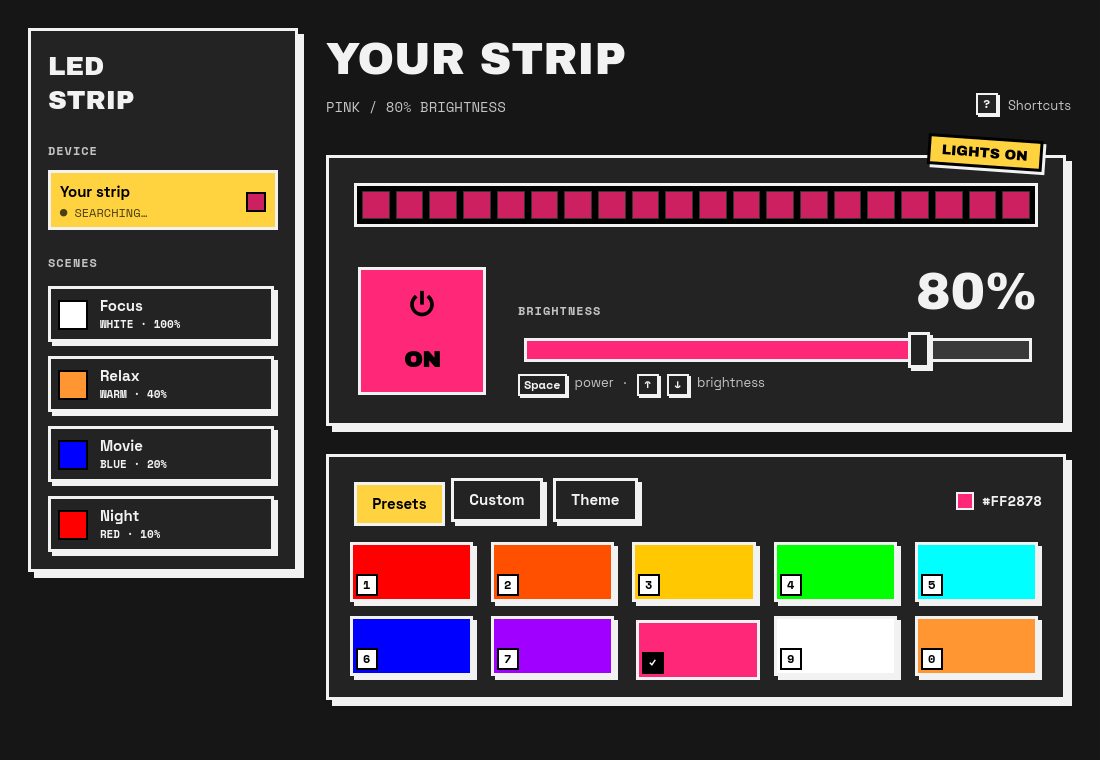
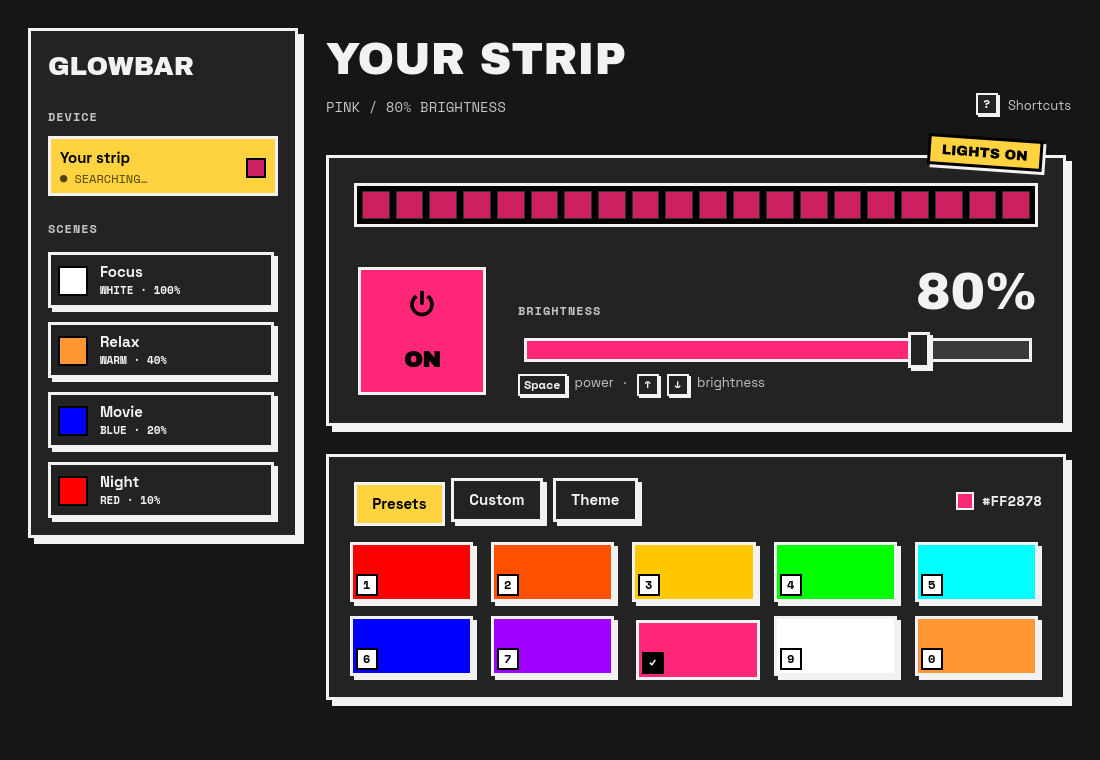
Rename the app to Glowbar
The binary, package, desktop entry, icon, macOS bundle and window title
are now glowbar / Glowbar. The Arch package replaces ledstrip, and saved
settings are copied from ~/.config/ledstrip on first launch so the
remembered strip, color and brightness carry over.

Changed region(s): [[0.0309, 0.0605, 0.2782, 0.7868]]

diff --git a/src/Main.qml b/src/Main.qml
@@ -10,7 +10,7 @@ ApplicationWindow {
     minimumWidth: 420
     minimumHeight: 560
     visible: true
-    title: qsTr("LED Strip")
+    title: "Glowbar"
     color: Neo.background
 
     font.family: Neo.body
@@ -231,8 +231,7 @@ ApplicationWindow {
 
                         Display {
                             Layout.fillWidth: true
-                            // Stack the words in the narrow column, as on a label.
-                            text: win.wide ? qsTr("LED Strip").replace(" ", "\n") : qsTr("LED Strip")
+                            text: "Glowbar"
                             font.pixelSize: 26
                             wrapMode: Text.Wrap
                         }

diff --git a/tests/glowbar_tests.cpp b/tests/glowbar_tests.cpp
@@ -9,7 +9,7 @@
 #include "theme.h"
 #include "translator.h"
 
-class LedstripTests : public QObject {
+class GlowbarTests : public QObject {
     Q_OBJECT
 
 private slots:
@@ -37,7 +37,7 @@ private slots:
     {
         const LedbleProtocol ledble;
         QTemporaryDir dir;
-        Backend backend(dir.filePath("ledstrip.conf"), dir.path());
+        Backend backend(dir.filePath("glowbar.conf"), dir.path());
         backend.setPower(false);
         QCOMPARE(backend.pendingPackets(), QList<QByteArray>{ledble.powerOffPacket()});
 
@@ -50,7 +50,7 @@ private slots:
     void brightnessStaysInRange()
     {
         QTemporaryDir dir;
-        Backend backend(dir.filePath("ledstrip.conf"), dir.path());
+        Backend backend(dir.filePath("glowbar.conf"), dir.path());
         backend.setBrightness(500);
         QCOMPARE(backend.brightness(), 100);
         backend.setBrightness(-3);
@@ -61,11 +61,11 @@ private slots:
     {
         QTemporaryDir dir;
         {
-            Backend backend(dir.filePath("ledstrip.conf"), dir.path());
+            Backend backend(dir.filePath("glowbar.conf"), dir.path());
             backend.setColor(QColor("#123456"));
             backend.setBrightness(40);
         }
-        Backend backend(dir.filePath("ledstrip.conf"), dir.path());
+        Backend backend(dir.filePath("glowbar.conf"), dir.path());
         QCOMPARE(backend.color(), QColor("#123456"));
         QCOMPARE(backend.brightness(), 40);
         QVERIFY(backend.pendingPackets().isEmpty());
@@ -75,7 +75,7 @@ private slots:
     {
         QTemporaryDir dir;
         write(dir.filePath("colors.toml"), "accent = \"#112233\"\n");
-        Backend backend(dir.filePath("ledstrip.conf"), dir.path());
+        Backend backend(dir.filePath("glowbar.conf"), dir.path());
         QCOMPARE(backend.themeLightColor(), QColor("#112233"));
 
         // Tokyo Night writes it without the hash.
@@ -86,7 +86,7 @@ private slots:
     void themeLightFallsBack()
     {
         QTemporaryDir dir;
-        Backend backend(dir.filePath("ledstrip.conf"), dir.path());
+        Backend backend(dir.filePath("glowbar.conf"), dir.path());
         QCOMPARE(backend.themeLightColor(), QColor("#FFD60A"));
     }
 
@@ -185,5 +185,5 @@ private:
     }
 };
 
-QTEST_MAIN(LedstripTests)
-#include "ledstrip_tests.moc"
+QTEST_MAIN(GlowbarTests)
+#include "glowbar_tests.moc"

diff --git a/src/backend.cpp b/src/backend.cpp
@@ -14,12 +14,25 @@
 
 namespace {
 const QColor kFallbackColor("#FFD60A");
+
+// The app was called ledstrip before; carry its settings (the remembered
+// strip, color and brightness) over to the new name once.
+QString defaultSettingsPath() {
+    const QString config = QStandardPaths::writableLocation(QStandardPaths::GenericConfigLocation);
+    const QString path = config + "/glowbar/glowbar.conf";
+    const QString legacy = config + "/ledstrip/ledstrip.conf";
+    if (!QFile::exists(path) && QFile::exists(legacy)) {
+        QDir().mkpath(config + "/glowbar");
+        QFile::copy(legacy, path);
+    }
+    return path;
+}
 }
 
 Backend::Backend(const QString &settingsPath, const QString &themeDirectory, QObject *parent)
     : QObject(parent),
       m_settingsPath(settingsPath.isEmpty()
-                         ? QStandardPaths::writableLocation(QStandardPaths::GenericConfigLocation) + "/ledstrip/ledstrip.conf"
+                         ? defaultSettingsPath()
                          : settingsPath),
       m_themeDirectory(themeDirectory.isEmpty() ? QDir::homePath() + "/.local/state/omarchy/current/theme"
                                                 : themeDirectory) {

diff --git a/src/main.cpp b/src/main.cpp
@@ -1,6 +1,6 @@
 /**
  * @file main.cpp
- * @brief ledstrip — control a Bluetooth LED strip from the desktop.
+ * @brief glowbar — control a Bluetooth LED strip from the desktop.
  */
 
 #include <QFontDatabase>
@@ -18,13 +18,13 @@
 
 int main(int argc, char *argv[]) {
     QGuiApplication app(argc, argv);
-    app.setApplicationName("ledstrip");
+    app.setApplicationName("glowbar");
     app.setApplicationVersion("0.1.0");
 
-    // Matches the window to ledstrip.desktop so the compositor (Wayland
+    // Matches the window to glowbar.desktop so the compositor (Wayland
     // app_id) and the launcher pick up the installed icon.
-    app.setDesktopFileName("ledstrip");
-    app.setWindowIcon(QIcon::fromTheme("ledstrip"));
+    app.setDesktopFileName("glowbar");
+    app.setWindowIcon(QIcon::fromTheme("glowbar"));
 
     // Every control is drawn by the app, so the plain style is enough.
     QQuickStyle::setStyle("Basic");

diff --git a/src/backend.h b/src/backend.h
@@ -44,7 +44,8 @@ public:
     /**
      * @brief Constructs the backend and restores persisted light settings.
      * @param settingsPath   Path to the INI settings file.
-     *                       Defaults to @c ~/.config/ledstrip/ledstrip.conf.
+     *                       Defaults to @c ~/.config/glowbar/glowbar.conf
+     *                       (copied from @c ~/.config/ledstrip/ledstrip.conf once).
      * @param themeDirectory Directory containing the Omarchy theme files.
      *                       Defaults to @c ~/.local/state/omarchy/current/theme.
      * @param parent         Optional QObject parent.

diff --git a/README.md b/README.md
@@ -1,6 +1,6 @@
-# LED Strip
+# Glowbar
 
-![LED Strip](docs/screenshot.png)
+![Glowbar](docs/screenshot.png)
 
 Control a Bluetooth LED strip from your desktop — switch it on and off, pick a
 color, set the brightness, or match your current theme.
@@ -53,7 +53,7 @@ strip).
 ## Build
 
 ```sh
-bin/build      # → build/ledstrip  (or build/ledstrip.app on macOS)
+bin/build      # → build/glowbar  (or build/glowbar.app on macOS)
 bin/test       # unit tests, runs offscreen
 bin/install    # install system-wide (see notes below)
 ```
@@ -67,11 +67,11 @@ and macOS.
 |----------|------------------------|
 | Arch Linux | Runs `makepkg -fsi` — builds and installs an Arch package |
 | Generic Linux | Copies the binary to `$PREFIX/bin` (default `/usr/local`) |
-| macOS | Copies `ledstrip.app` to `/Applications` (or `$PREFIX`) |
+| macOS | Copies `glowbar.app` to `/Applications` (or `$PREFIX`) |
 
 ### macOS icon
 
-The `macos/` directory needs a `ledstrip.icns` file before building. See
+The `macos/` directory needs a `glowbar.icns` file before building. See
 [`macos/README.md`](macos/README.md) for a one-liner that generates it from
 the SVG.
 

diff --git a/macos/README.md b/macos/README.md
@@ -1,12 +1,12 @@
-# Place ledstrip.icns here.
+# Place glowbar.icns here.
 #
 # To generate it from an SVG:
 #   brew install librsvg
-#   mkdir ledstrip.iconset
+#   mkdir glowbar.iconset
 #   for size in 16 32 64 128 256 512; do
-#     rsvg-convert -w $size -h $size ../pkgbuild/ledstrip.svg \
-#       -o ledstrip.iconset/icon_${size}x${size}.png
-#     rsvg-convert -w $((size*2)) -h $((size*2)) ../pkgbuild/ledstrip.svg \
-#       -o ledstrip.iconset/icon_${size}x${size}@2x.png
+#     rsvg-convert -w $size -h $size ../pkgbuild/glowbar.svg \
+#       -o glowbar.iconset/icon_${size}x${size}.png
+#     rsvg-convert -w $((size*2)) -h $((size*2)) ../pkgbuild/glowbar.svg \
+#       -o glowbar.iconset/icon_${size}x${size}@2x.png
 #   done
-#   iconutil -c icns ledstrip.iconset
+#   iconutil -c icns glowbar.iconset
